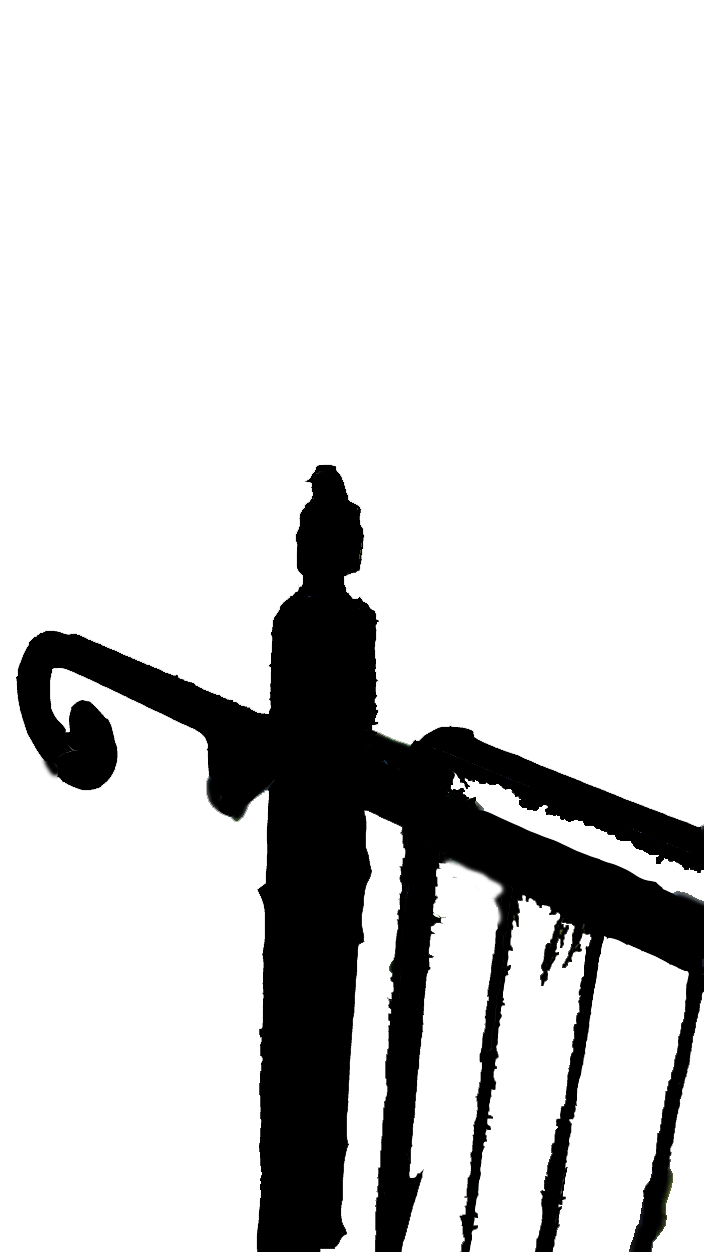
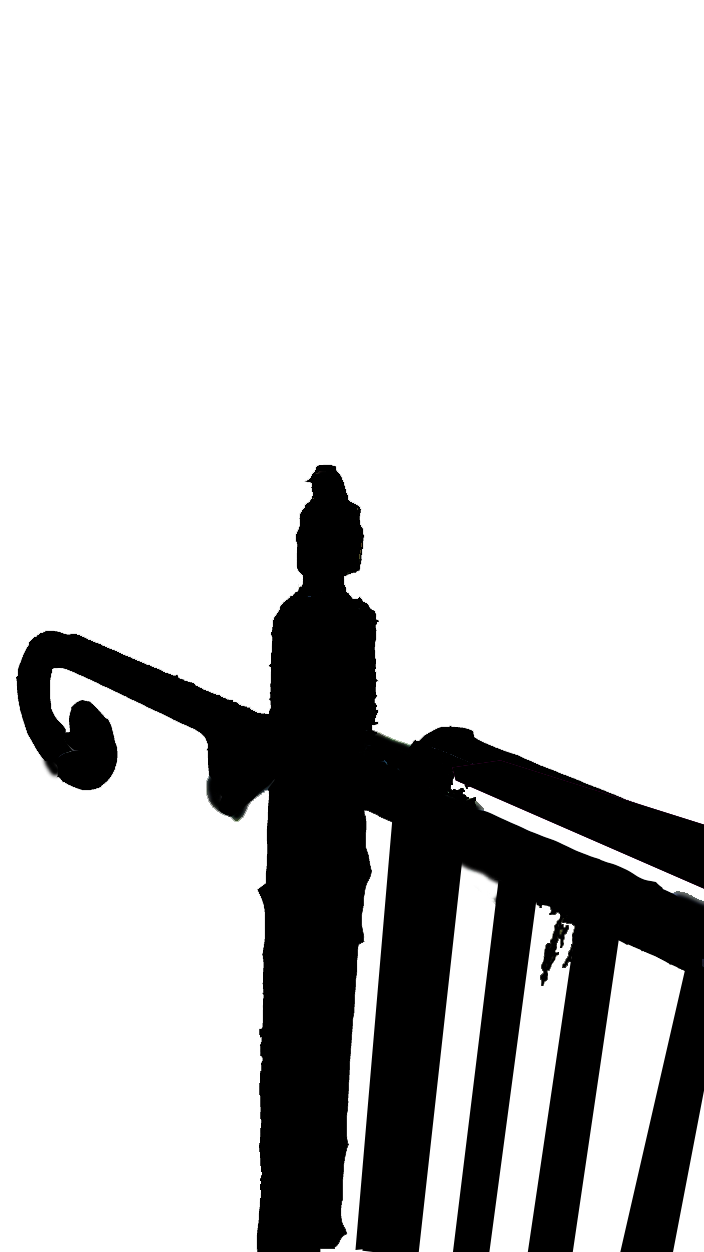
final upload

diff --git a/sketch.js b/sketch.js
@@ -2,9 +2,9 @@ let sourceImg=null;
 let maskImg=null;
 let renderCounter=0;
 
-let sourceFile = "input_1.jpg";
-let maskFile   = "mask_1.png";
-let outputFile = "artwork_1x.png";
+let sourceFile = "input_2.jpg";
+let maskFile   = "mask_2.png";
+let outputFile = "artwork_2.png";
 
 function preload() {
   sourceImg = loadImage(sourceFile);
@@ -22,31 +22,12 @@ function setup () {
   maskImg.loadPixels();
 }
 const tileWidth = 15;
-const tileHeight = 20;
-const tileStepX = 6;
-const tileStepY = 10;
+const tileHeight = 25;
+const tileStepX = 30;
+const tileStepY = 35;
 function draw () {
-  background(80);
-  for(let y=0; y<height; y+=tileStepY){
-    for(let x=0; x<width; x+=tileStepX){
-      noStroke();
-      let pix = sourceImg.get(x, y);
-      let mask = maskImg.get(x, y);
-      fill(pix);
-      if(mask[0] > 128) {
-        rect(x, y, tileWidth, tileHeight);
-      }
-      else {
-        stroke(1);
-        stroke(color(85,95,30,100));
-        line(x, y, x+30, y+40);
-        stroke(color(255,95,0,45));
-        line(x,y,x+10,y+30);
-      }
-    }
-  }
-
-  for(let i=0;i<1500;i++) {
+  background(30);
+  for(let i=0;i<4500;i++) {
     noStroke();
     let x = floor(random(sourceImg.width));
     let y = floor(random(sourceImg.height));
@@ -55,27 +36,33 @@ function draw () {
 
     let halfSize = 50;
     
-    // ---------BACKGROUND---------
-    // if(mask[0] > 128) {
-    //   let size=50;
-    //   let rand=random(1,2);
-    //   fill(pix,rand); 
-    //   rect(x, y, size, (size*1.3)); 
-    // }
-    // // ---------CONTENT---------
-    // else {
-    //   // let size=10;
-    //   // ellipse(x, y, size, (size *1.2));
-    //   // fill(color(85,95,30,170));
-    //   // ellipse(x, y, size, (size *2.5));
-    //    let pointSize = 2;
-    //   let x2 = floor(random(sourceImg.width));
-    //   let y2 = floor(random(sourceImg.height));
-    //   // rect(x, y, pointSize, pointSize);
-    //   stroke(1);
-    //   stroke(color(85,95,30,170));
-    //   line(x, y, x2, y2);    
-    // }
+    //---------BACKGROUND---------
+    if(mask[0] > 128) {
+      let size=50;
+      let rand=random(1,225);
+      fill(pix,rand);
+      stroke(2);
+      stroke(color(200,200,200,70)); 
+      rect(x, y, size, (size*1.4)); 
+    }
+    // ---------CONTENT---------
+    else {
+      let size=15;
+      ellipseMode(CORNER);
+      fill(color(200,200));
+      ellipse(x, y, size, (size *1.2));
+      fill(color(150,200));
+      ellipse(x, y, size, (size *2.5));
+      stroke(1); 
+      stroke(color(255,95,0,45));
+      line(x,y+10,y,x+20);
+      stroke(color(255,195,0,55));
+      line(y,x+5,x,y+10);   
+      stroke(color(245,210,0,75));
+      line(y,x+3,x,y+2);
+      shearX(0); 
+    }
+
   }
   renderCounter = renderCounter + 1;
   if(renderCounter > 10) {

diff --git a/README.md b/README.md
@@ -1,3 +1,4 @@
 ## Creative Coding 2: Custom Pixel
 
-So far I have just tried to play with the colors and sizes in both the background and the subject of the photos. 	
+The overall theme I have choosen to go for is more about how life can be more abstract. I thought about how particular parts of life can appear to be distorted or simiply out of foucus when viewed from an partiular angle. For this I choose to use nature photos from around Wellington's CBD. I have choosen to keep the background of the photos relatively in focus by adding a stroke to each of the shapes which form the background. 
+For the subject of the of the images i have chossen to distort the images alot more by adding lines that go off in seemingly random direcitons and lengths. These lines are in mulitple colors to imply that although things can appear as though they are out of kilter they are still able to have a certian value and intrest to them. 
